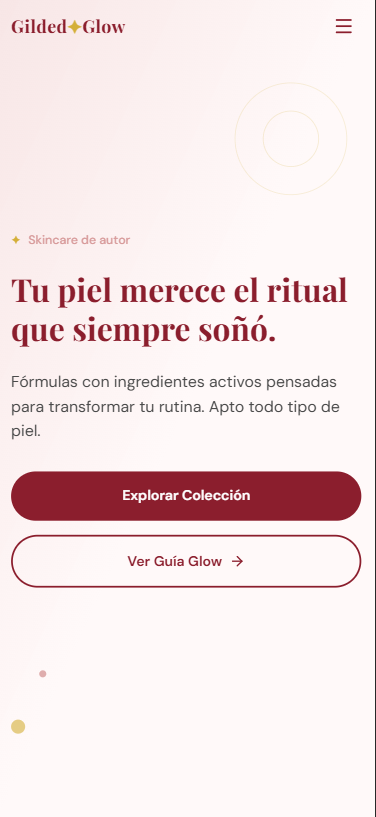
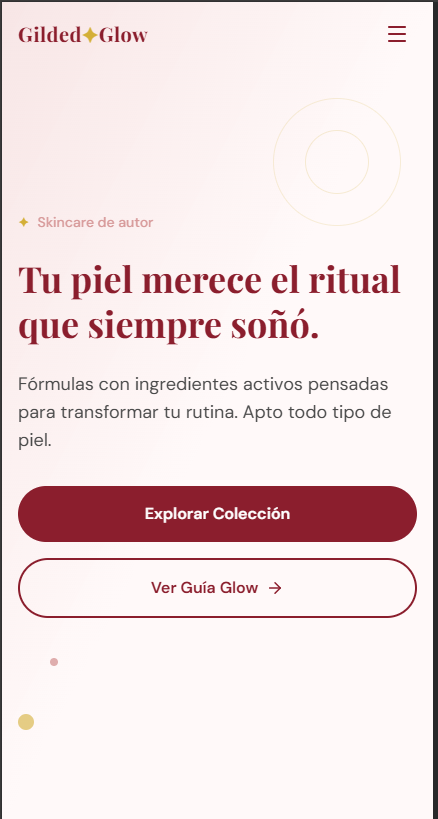
chore: clean up code structure and remove unused code blocks

Changed region(s): [[0.0, 0.0, 1.0, 1.0], [0.8777, 0.0, 0.9362, 0.0612], [0.117, 0.7956, 0.1463, 0.8262]]

diff --git a/index.html b/index.html
@@ -49,7 +49,7 @@
     <!-- ========== HEADER ========== -->
     <header id="site-header"
         class="fixed top-0 left-0 right-0 z-[9999] bg-white/80 dark:bg-gray-900/80 backdrop-blur-md border-b border-gray-100 dark:border-gray-800 transition-shadow duration-300">
-        <div class="max-w-6xl mx-auto px-4 sm:px-6 lg:px-8">
+        <div class="max-w-6xl mx-auto px-6 sm:px-6 lg:px-8">
             <div class="flex items-center justify-between h-20">
                 <!-- Logo -->
                 <a href="#" class="flex items-center gap-3 select-none">
@@ -201,7 +201,7 @@
 
         <!-- Main Hero Content -->
         <div class="flex-grow flex items-center relative z-10 py-12 md:py-16">
-            <div class="max-w-6xl mx-auto px-4 sm:px-6 lg:px-8 w-full">
+            <div class="max-w-6xl mx-auto px-6 sm:px-6 lg:px-8 w-full">
                 <div class="grid md:grid-cols-2 gap-10 md:gap-16 items-center">
                     <div class="reveal-left pt-10 md:py-20">
                         <h1
@@ -339,7 +339,7 @@
 
         <!-- ========== URGENCY BANNER ========== -->
         <div class="relative z-10 bg-amber-50 dark:bg-amber-950/30 border-t-2 border-b border-amber-300 dark:border-amber-700/60">
-            <div class="max-w-6xl mx-auto px-4 py-2 flex flex-col sm:flex-row items-center justify-center gap-0.5 sm:gap-3 text-center">
+            <div class="max-w-6xl mx-auto px-6 py-2 flex flex-col sm:flex-row items-center justify-center gap-0.5 sm:gap-3 text-center">
                 <p class="text-[11px] sm:text-xs font-semibold text-amber-800 dark:text-amber-300 whitespace-nowrap flex items-center gap-1.5">
                     <svg class="w-3 h-3 flex-shrink-0 text-amber-500" fill="currentColor" viewBox="0 0 20 20">
                         <path fill-rule="evenodd" d="M8.485 2.495c.673-1.167 2.357-1.167 3.03 0l6.28 10.875c.673 1.167-.17 2.625-1.516 2.625H3.72c-1.347 0-2.189-1.458-1.515-2.625L8.485 2.495zM10 5a.75.75 0 01.75.75v3.5a.75.75 0 01-1.5 0v-3.5A.75.75 0 0110 5zm0 9a1 1 0 100-2 1 1 0 000 2z" clip-rule="evenodd"/>
@@ -356,7 +356,7 @@
 
     <!-- ========== PROBLEMA vs SOLUCIÓN ========== -->
     <section id="problema" class="py-16 md:py-24 bg-white dark:bg-gray-900 overflow-hidden">
-        <div class="max-w-6xl mx-auto px-4 sm:px-6 lg:px-8">
+        <div class="max-w-6xl mx-auto px-6 sm:px-6 lg:px-8">
             <div class="text-center mb-12 reveal-up">
                 <h2 class="text-2xl sm:text-3xl lg:text-4xl font-extrabold tracking-tight">¿Tu negocio solo existe en
                     redes?</h2>
@@ -451,7 +451,7 @@
 
     <!-- ========== WEB TRADICIONAL vs SITIOHOY ========== -->
     <section class="py-16 md:py-24 overflow-hidden">
-        <div class="max-w-6xl mx-auto px-4 sm:px-6 lg:px-8">
+        <div class="max-w-6xl mx-auto px-6 sm:px-6 lg:px-8">
             <div class="text-center mb-12 reveal-up">
                 <h2 class="text-2xl sm:text-3xl lg:text-4xl font-extrabold tracking-tight">¿Cuánto cuesta una web
                     normalmente?</h2>
@@ -540,7 +540,7 @@
                     </svg>
                     Empezá hoy por $35.000/mes
                 </a>
-                <p class="mt-2 text-xs text-gray-400 dark:text-gray-500">Sin inversión inicial · Cancelá cuando quieras
+                <p class="mt-4 text-xs text-gray-400 dark:text-gray-500">Sin inversión inicial · Cancelá cuando quieras
                 </p>
             </div>
         </div>
@@ -552,7 +552,7 @@
         <!-- Floating Blob -->
         <div class="floating-blob floating-blob-1" aria-hidden="true"></div>
         <div class="floating-blob floating-blob-2" aria-hidden="true"></div>
-        <div class="max-w-6xl mx-auto px-4 sm:px-6 lg:px-8 relative z-10">
+        <div class="max-w-6xl mx-auto px-6 sm:px-6 lg:px-8 relative z-10">
             <div class="text-center mb-12 reveal-up">
                 <h2 class="text-2xl sm:text-3xl lg:text-4xl font-extrabold tracking-tight">Empezá en 3 pasos</h2>
                 <p class="mt-3 text-gray-500 dark:text-gray-400 max-w-2xl mx-auto">Tan fácil que no lo vas a creer.</p>
@@ -623,7 +623,7 @@
                     </svg>
                     Empezar es así de fácil
                 </a>
-                <p class="mt-2 text-xs text-gray-400 dark:text-gray-500">Te respondemos en minutos por WhatsApp</p>
+                <p class="mt-4 text-xs text-gray-400 dark:text-gray-500">Te respondemos en minutos por WhatsApp</p>
             </div>
         </div>
     </section>
@@ -632,7 +632,7 @@
     <!-- ========== SOCIAL PROOF ========== -->
     <section
         class="py-12 md:py-16 bg-white dark:bg-gray-900 border-y border-gray-100 dark:border-gray-800 overflow-hidden">
-        <div class="max-w-4xl mx-auto px-4 sm:px-6 lg:px-8">
+        <div class="max-w-4xl mx-auto px-6 sm:px-6 lg:px-8">
             <div class="grid grid-cols-3 gap-6 text-center reveal-up">
                 <div class="flex flex-col items-center justify-center">
                     <div class="flex items-baseline justify-center">
@@ -668,7 +668,7 @@
         <div
             class="absolute top-0 inset-x-0 h-px bg-gradient-to-r from-transparent via-gray-200 dark:via-gray-800 to-transparent">
         </div>
-        <div class="max-w-7xl mx-auto px-4 sm:px-6 lg:px-8">
+        <div class="max-w-7xl mx-auto px-6 sm:px-6 lg:px-8">
             <div class="text-center mb-16 reveal-up">
                 <h2 class="text-2xl sm:text-3xl lg:text-4xl font-extrabold tracking-tight">Elegí el plan perfecto para
                     vos</h2>
@@ -1038,7 +1038,7 @@
 
     <!-- ========== FAQ ========== -->
     <section id="faq" class="py-16 md:py-24 bg-white dark:bg-gray-900 overflow-hidden">
-        <div class="max-w-3xl mx-auto px-4 sm:px-6 lg:px-8">
+        <div class="max-w-3xl mx-auto px-6 sm:px-6 lg:px-8">
             <div class="text-center mb-12 reveal-up">
                 <h2 class="text-2xl sm:text-3xl lg:text-4xl font-extrabold tracking-tight">Preguntas frecuentes</h2>
                 <p class="mt-3 text-gray-500 dark:text-gray-400">Todo lo que necesitás saber antes de empezar.</p>
@@ -1114,7 +1114,7 @@
     <footer class="bg-brand-dark">
 
         <!-- Main -->
-        <div class="max-w-6xl mx-auto px-4 sm:px-6 lg:px-8 py-10">
+        <div class="max-w-6xl mx-auto px-6 sm:px-6 lg:px-8 py-10">
             <div class="flex flex-col md:flex-row items-center justify-between gap-8">
 
                 <!-- Logo -->
@@ -1127,7 +1127,7 @@
                             <span class="text-white">Sitio</span><span class="text-brand-accent">Hoy</span>
                         </span>
                     </a>
-                    <p class="text-gray-500 text-xs mt-1">Tu presencia online, resuelta.</p>
+                    <p class="text-gray-500 text-xs mt-1 hidden md:block">Tu presencia online, resuelta.</p>
                 </div>
 
                 <!-- CTA -->

diff --git a/css/styles.css b/css/styles.css
@@ -7,7 +7,7 @@
 /* --- Modern Reveal Animations --- */
 [class*="reveal-"] {
   opacity: 0;
-  transition: opacity 0.8s cubic-bezier(0.16, 1, 0.3, 1), transform 0.8s cubic-bezier(0.16, 1, 0.3, 1);
+  transition: opacity 1s ease-out, transform 1s ease-out;
   will-change: opacity, transform;
 }
 
@@ -35,7 +35,7 @@
 .reveal-stagger > .reveal-item {
   opacity: 0;
   transform: translateY(20px);
-  transition: opacity 0.6s cubic-bezier(0.16, 1, 0.3, 1), transform 0.6s cubic-bezier(0.16, 1, 0.3, 1);
+  transition: opacity 0.8s ease-out, transform 0.8s ease-out;
 }
 
 .reveal-stagger.visible > .reveal-item {
@@ -471,6 +471,7 @@ summary {
 .slide.active {
   opacity: 1;
 }
+
 
 /* --- iPhone Frame (Realism: Dynamic Island) --- */
 .phone-frame {

diff --git a/js/main.js b/js/main.js
@@ -138,7 +138,7 @@
                     fadeObs.unobserve(entry.target);
                 }
             });
-        }, { threshold: 0.05 });
+        }, { threshold: 0.15 });
 
         document.querySelectorAll('[class*="reveal-"]').forEach(function (el) {
             fadeObs.observe(el);
